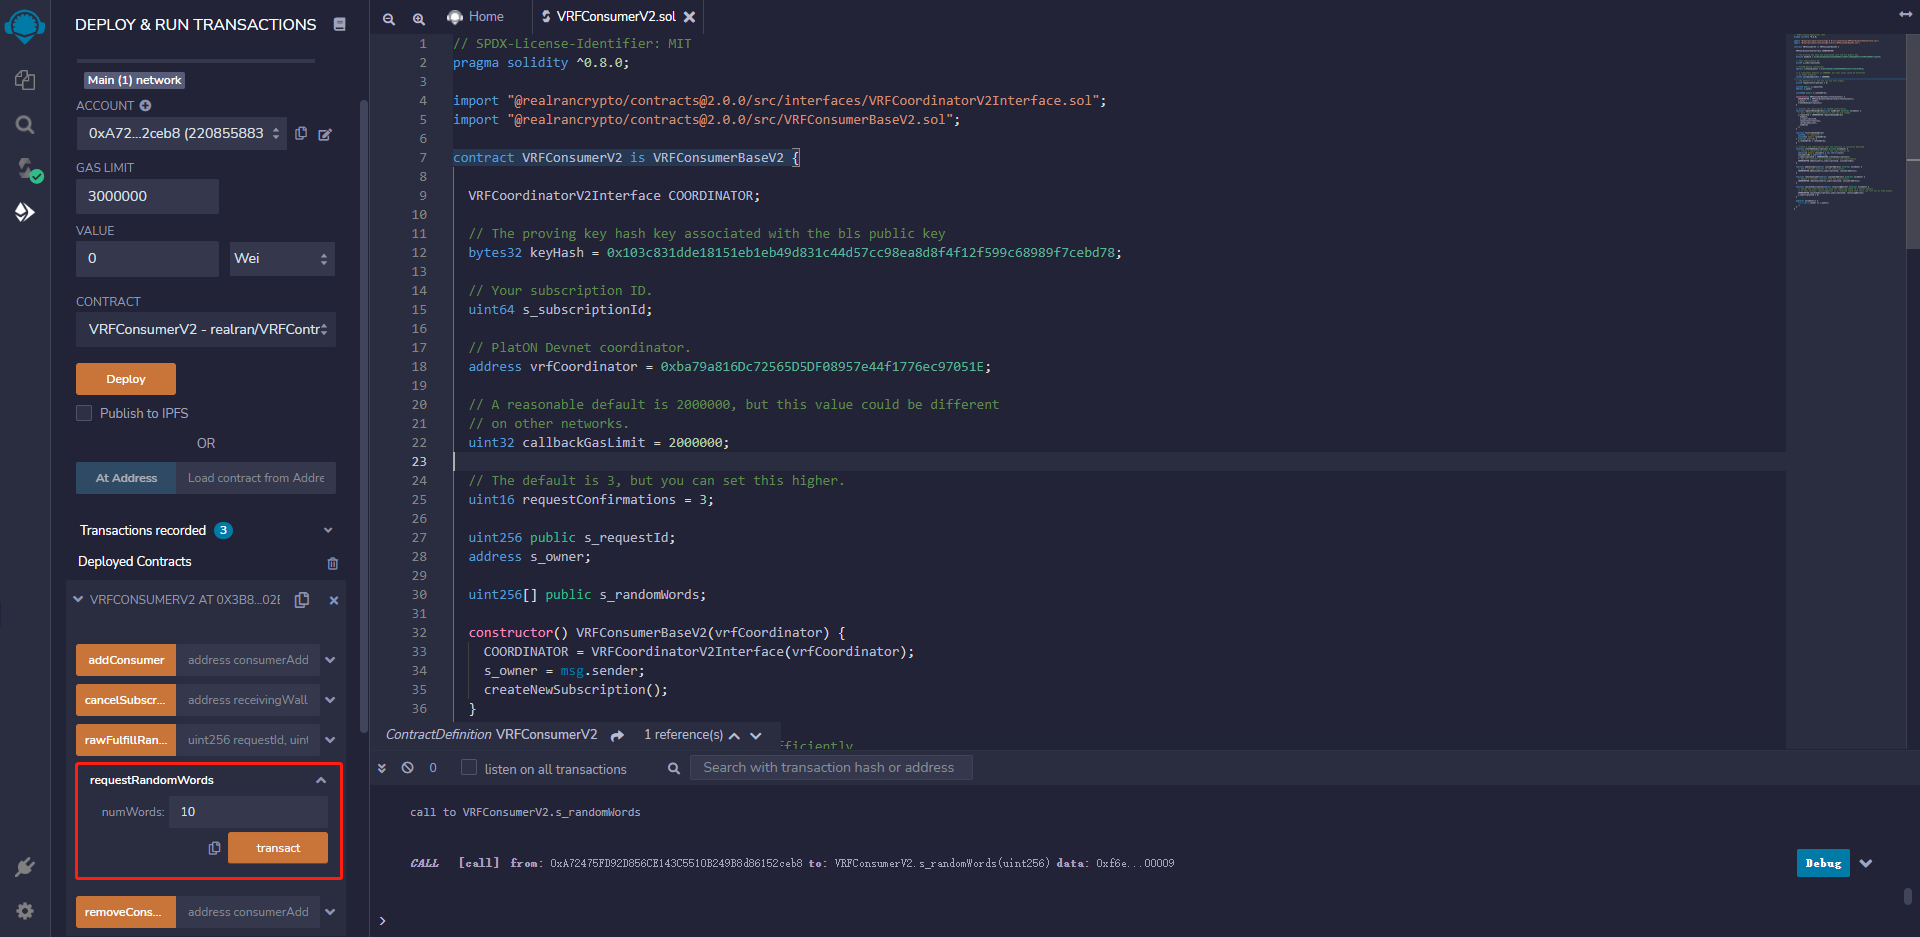
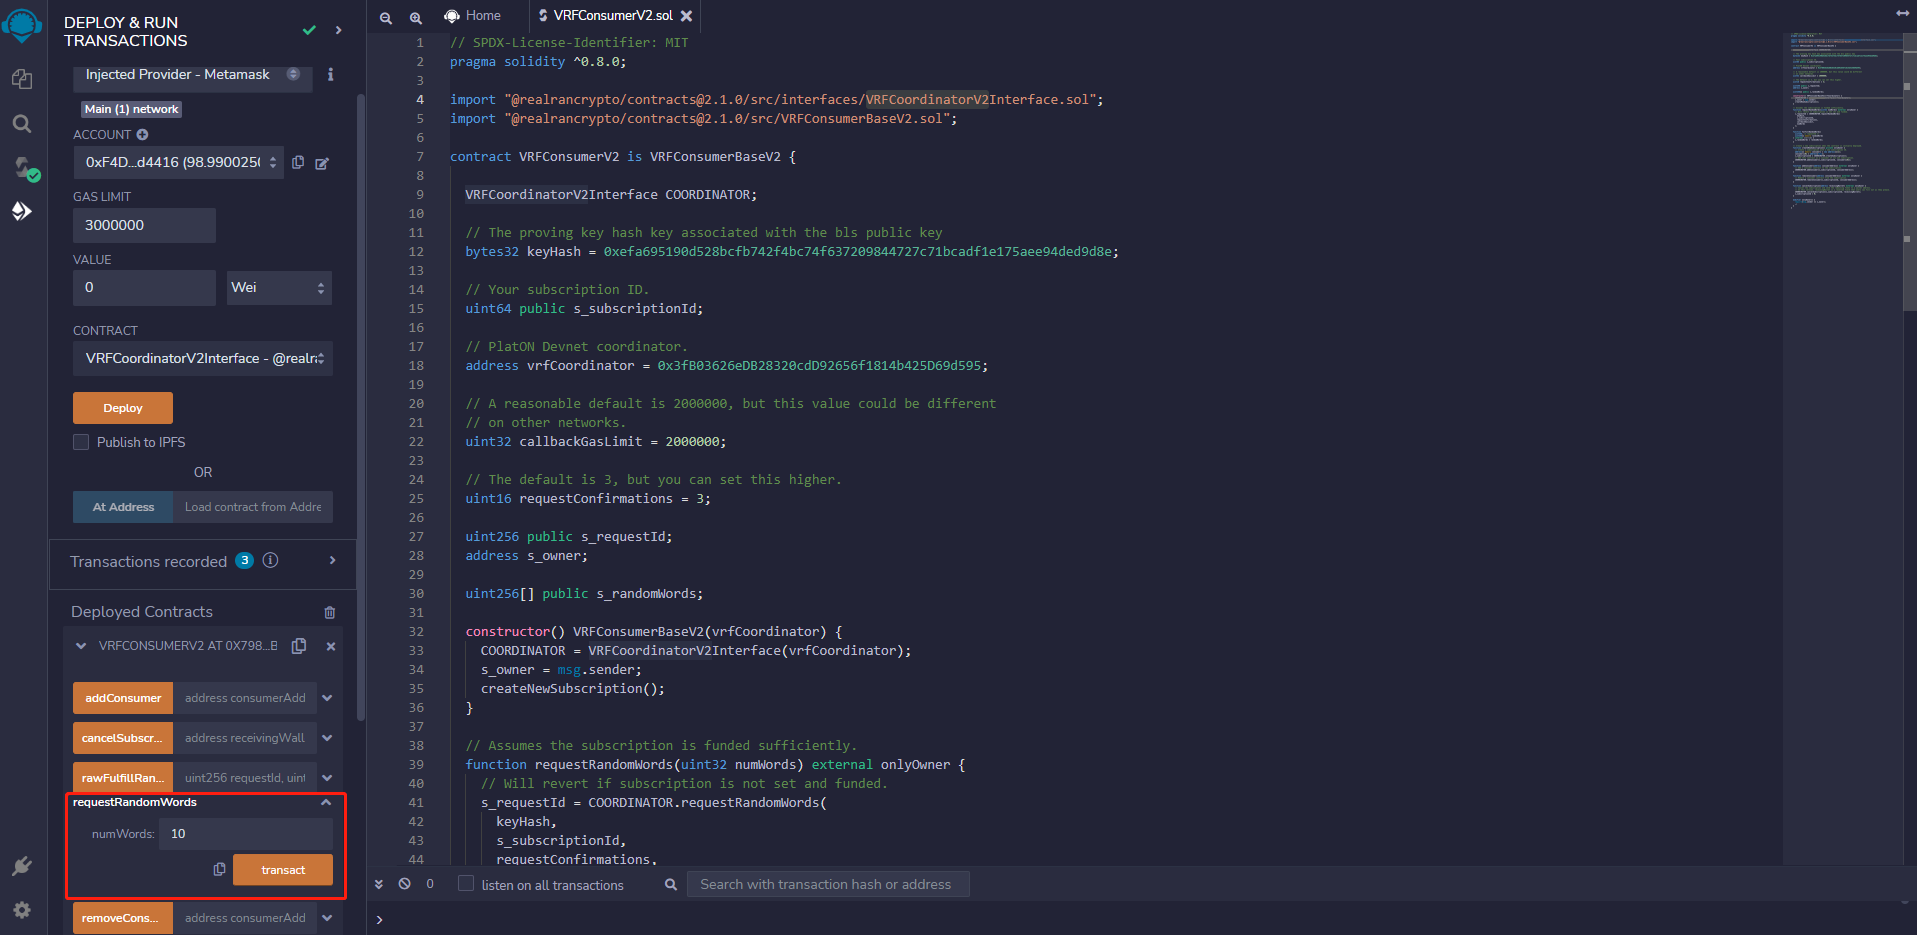
update v2.1

diff --git a/docs/Getting Started/Get a Random Number.md b/docs/Getting Started/Get a Random Number.md
@@ -1,5 +1,5 @@
 
-One simple example is shown below to demonstrate how to use Remix IDE to deploy the `VRFConsumer.sol` contract on PlatON and get random values. 
+One simple example is shown below to demonstrate how to use Remix IDE to deploy the `VRFConsumerV2.sol` contract on PlatON and get random values. 
 
 ##  Preparation
 - MetaMask
@@ -23,7 +23,7 @@ MetaMask is the most widely used browser plug-in wallet and users can easily int
 
 ### Import VRFContract Repo
 
-Open the [VRFConsumerV2.sol](https://remix.ethereum.org/#url=https://github.com/realran/VRFContract/blob/main/sample/VRFConsumerV2.sol) contract in Remix.
+Open the [VRFConsumerV2.sol](https://remix.ethereum.org/#url=https://github.com/realran/VRFContract/blob/main/sample/v2.1.0/VRFConsumerV2.sol) contract in Remix.
 
 ![contracts_structure](./imgs/contracts_structure.png) 
 
@@ -34,8 +34,8 @@ For this example, use the `VRFConsumerV2.sol` sample contract in the sample fold
 The sample contract imports the VRFContract codebase and uses relative paths to import dependencies. However, it is not a must. You could directly import dependencies from [NPM](https://www.npmjs.com/package/@realrancrypto/contracts) without loading the codebase. To do it, just add codes at the beginning of your consumer contract:
 
 ```
-import "@realrancrypto/contracts@2.0.0/src/interfaces/VRFCoordinatorV2Interface.sol";
-import "@realrancrypto/contracts@2.0.0/src/VRFConsumerBaseV2.sol";
+import "@realrancrypto/contracts@2.1.0/src/interfaces/VRFCoordinatorV2Interface.sol";
+import "@realrancrypto/contracts@2.1.0/src/VRFConsumerBaseV2.sol";
 ```
 
 The contract also includes pre-configured values for the necessary request parameters such as `callbackGasLimit`, `requestConfirmations`. When you deploy your own contract, you can use the same value as provided in the contract. For the parameter `keyHash`, `vrfCoordinator`, You can change its value based on different networks.
@@ -55,8 +55,26 @@ Before compiling, please get the `keyHash` and `VRFCoordinator` address based on
 ![consumer_deploy](./imgs/consumer_deploy.png)
 
 1. On the Remix left sidebar, click the **Deploy & run transactions** tab.
-2. select the **Injected Web3** Environment.
+
+2. select the **Injected Provider - Metamask** Environment.
+
 3. Select the `VRFConsumerV2` contract and click the **Deploy** button. MetaMask opens and asks you to confirm the transaction.
+
+4. A subscription is automatically created when the contract is deployed, and the subscription ID is queried.
+
+![consumer_subscriptionId](./imgs/consumer_subscriptionId.png)
+
+###  Load `VRCoordinatorV2.sol` contract and recharge subscription
+
+1. Open the [VRCoordinatorV2.sol](https://remix.ethereum.org/#url=https://github.com/realran/VRFContract/blob/main/sample/v2.1.0/VRFCoordinatorV2.sol) contract in Remix and compile it.
+
+2. Load `VRCoordinatorV2.sol` contract, fill in the `VRFCoordinator` address in the red box 3 and click the At Address button
+
+![coordinator_deploy](./imgs/coordinator_deploy.png) 
+
+3.  Recharge subscription, in the example, recharge 1 LAT to the subscription with ID 29
+
+![recharge_subscriptionId](./imgs/recharge_subscriptionId.png)
 
 ### Request random values
 
@@ -78,21 +96,21 @@ As a consumer of random numbers, the Consumer contract also has subscription man
 // SPDX-License-Identifier: MIT
 pragma solidity ^0.8.0;
 
-import "@realrancrypto/contracts@2.0.0/src/interfaces/VRFCoordinatorV2Interface.sol";
-import "@realrancrypto/contracts@2.0.0/src/VRFConsumerBaseV2.sol";
+import "@realrancrypto/contracts@2.1.0/src/interfaces/VRFCoordinatorV2Interface.sol";
+import "@realrancrypto/contracts@2.1.0/src/VRFConsumerBaseV2.sol";
 
 contract VRFConsumerV2 is VRFConsumerBaseV2 {
 
   VRFCoordinatorV2Interface COORDINATOR;
 
   // The proving key hash key associated with the bls public key
-  bytes32 keyHash = 0x78e96b19f860056881cc2552c8f8083fa1dbed8a5ab010d3626a4000fb528e9f;
+  bytes32 keyHash = 0xefa695190d528bcfb742f4bc74f637209844727c71bcadf1e175aee94ded9d8e;
 
   // Your subscription ID.
-  uint64 s_subscriptionId;
+  uint64 public s_subscriptionId;
 
-  // Coordinate contract address on PlatON Devnet
-  address vrfCoordinator = 0xFE5F2A9d5227Fb1c4541e3D67aaF516d7d51495C;
+  // PlatON Devnet coordinator.
+  address vrfCoordinator = 0x3fB03626eDB28320cdD92656f1814b425D69d595;
 
   // A reasonable default is 2000000, but this value could be different
   // on other networks.
@@ -109,7 +127,6 @@ contract VRFConsumerV2 is VRFConsumerBaseV2 {
   constructor() VRFConsumerBaseV2(vrfCoordinator) {
     COORDINATOR = VRFCoordinatorV2Interface(vrfCoordinator);
     s_owner = msg.sender;
-    //Create a new subscription when you deploy the contract.
     createNewSubscription();
   }
 

diff --git a/docs/Getting Started/Overview.md b/docs/Getting Started/Overview.md
@@ -14,11 +14,16 @@ In VRF 1.0, we leverage the PlatON built-in contract to generate on-chain random
 
 The version mainly introduces an off-chain value generating mechanism. After receiving the event, the off-chain service integrating the BN254 curve algorithm generates the random values and proofs, and then verifies them on the chain before fulfilling the values to the user contract.
 
+VRF2.1 版本只要有两点改动：
+
+1. VRF Service 使用 ECDSA 密钥算法
+2. VRF 服务开始计费，用户创建订阅后，需要通过 VRFCoordinator 合约向订阅充值 LAT，否则无法使用服务
+
 The brief contract structure design is as follows:
 
 ![contracts_overview](./imgs/contracts_overview.png)
 
-- BLS Service : use multiple BLS private keys to sign seeds separately and aggregate the signatures.
+- VRF Service : 一种使用 ECDSA 密钥算法生成不可预测性和可验证的随机数的服务，同时该随机数还具有唯一性、抗碰撞和随机性。
 
 ## How to use
 
@@ -26,7 +31,8 @@ The brief contract structure design is as follows:
 
 1. Get the `Key Hash` and `VRFCoordinator` address based on the network in the and update the `keyHash` and `vrfCoordinator` address in the  `VRFConsumerV2.sol`.
 2. Deploy the `VRFConsumerV2.sol` contract. This example contract includes the `createNewSubscription()` function in the `constructor()` that creates the subscription and adds itself as a consumer automatically when you deploy it.
-3. Call the `requestRandomWords()` function in the `VRFConsumerV2.col` contract to asynchronously request random values which are returned via the callback function `fulfillRandomWords()`.
+3. 直接使用钱包账户通过调用 VRFCoordinator 合约的 fundSubscription 方法对订阅进行充值。
+4. Call the `requestRandomWords()` function in the `VRFConsumerV2.col` contract to asynchronously request random values which are returned via the callback function `fulfillRandomWords()`.
 
 For more, please refer to：[Get a Random Number](./Get%20a%20Random%20Number)
 
